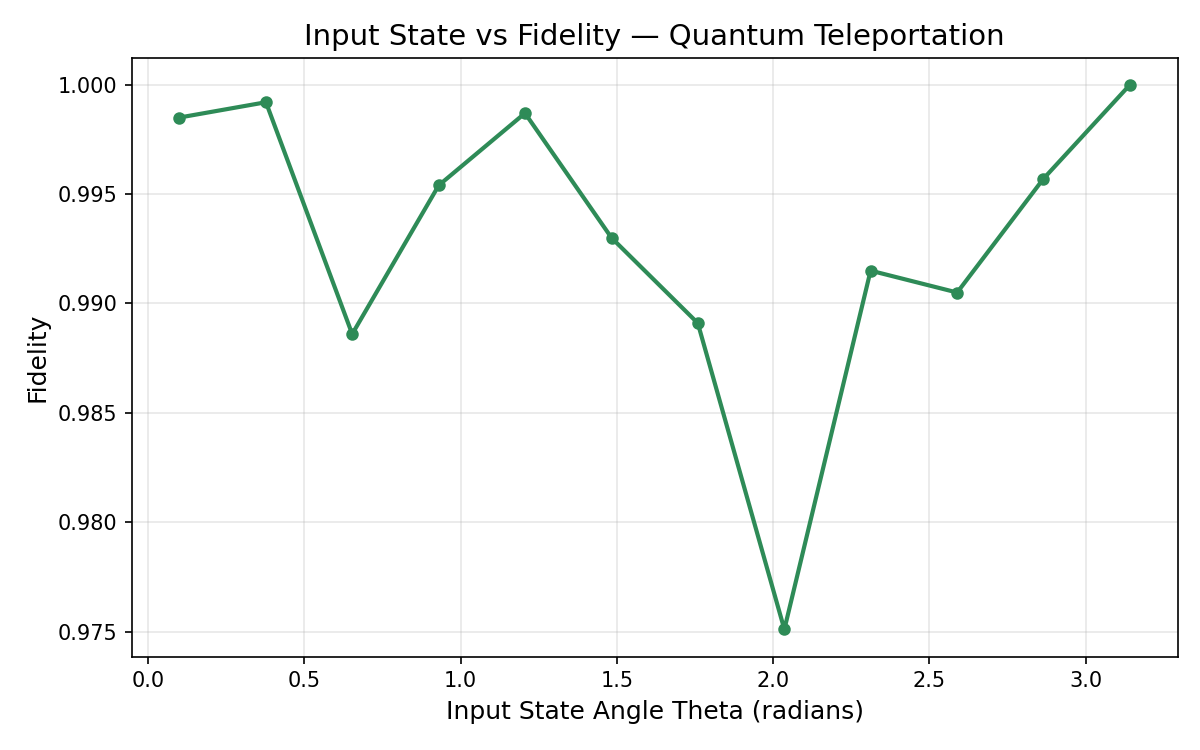
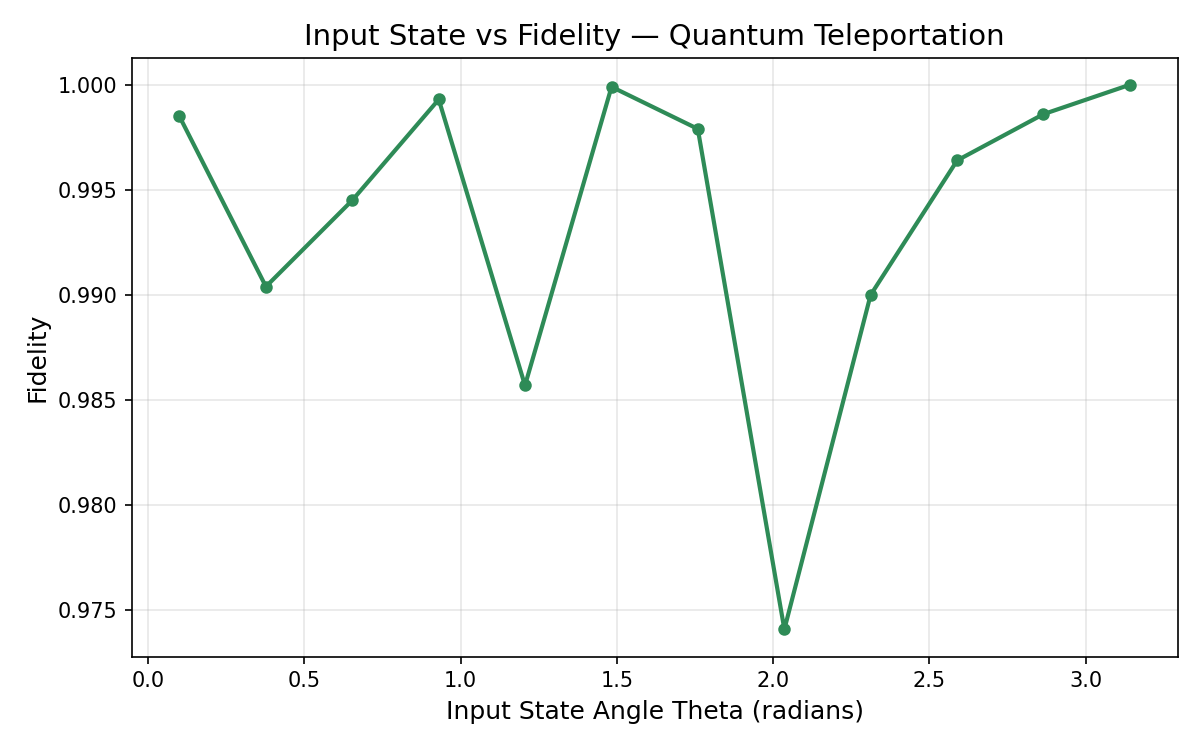
day3: parameter sweeps and experiment

diff --git a/src/experiment.py b/src/experiment.py
@@ -11,16 +11,17 @@ from src.simulator import run_qasm, run_with_noise
 from src.utils import compute_fidelity, save_results, plot_graph
 
 
-def experiment_noise_vs_fidelity(shots=1024):
+def experiment_noise_vs_fidelity(shots=8192):
     """
     Experiment 1: How does noise level affect fidelity?
-    Sweeps depolarizing noise from 0.0 to 0.1
+    Uses theta=pi/3 (theoretical prob=0.25) for clearer signal.
+    Sweeps depolarizing noise from 0.0 to 0.3
     """
     print("Running Experiment 1: Noise vs Fidelity...")
 
-    noise_levels = [0.0, 0.01, 0.02, 0.03, 0.04, 0.05, 0.06, 0.07, 0.08, 0.09, 0.10]
+    noise_levels = [0.0, 0.02, 0.04, 0.06, 0.08, 0.10, 0.15, 0.20, 0.25, 0.30]
     fidelities = []
-    theta = np.pi / 2  # fixed state for fair comparison
+    theta = np.pi / 3  # theoretical prob = sin(pi/6)^2 = 0.25
 
     for noise in noise_levels:
         qc, _ = create_teleportation_circuit(state_angle_theta=theta)
@@ -33,8 +34,6 @@ def experiment_noise_vs_fidelity(shots=1024):
         print(f"  noise={noise:.2f} -> fidelity={fidelity:.4f}")
 
     return noise_levels, fidelities
-
-
 def experiment_shots_vs_fidelity():
     """
     Experiment 2: How does number of shots affect fidelity stability?

diff --git a/src/utils.py b/src/utils.py
@@ -7,26 +7,19 @@ import pandas as pd
 import os
 
 
-def compute_fidelity(counts, theta, shots=1024):
+def compute_fidelity(counts, theta, shots=None):
     """
-    Correct fidelity calculation.
-    
-    For state Ry(theta)|0>, the probability of measuring |1> = sin(theta/2)^2
-    We compare Bob's measured |1> probability vs the theoretical value.
     Fidelity = 1 - |measured_prob - theoretical_prob|
+    
+    Bob's bit is the FIRST character in each key e.g. '1 01'
+    theoretical_prob = sin(theta/2)^2
     """
     total = sum(counts.values())
-    
-    # Bob's bit is the FIRST character in each key
-    bob_ones = sum(v for k, v in counts.items() if k.strip().split(' ')[0] == '1')
+    bob_ones = sum(v for k, v in counts.items() if k.strip()[0] == '1')
     measured_prob = bob_ones / total
-    
-    # What probability SHOULD we see given theta?
     theoretical_prob = np.sin(theta / 2) ** 2
-    
     fidelity = 1 - abs(measured_prob - theoretical_prob)
     return round(fidelity, 4)
-
 def plot_graph(x, y, xlabel, ylabel, title, save_path, color='steelblue'):
     """Plots and saves a line graph."""
     plt.figure(figsize=(8, 5))
